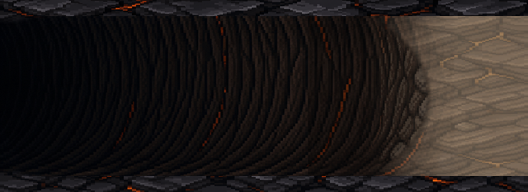
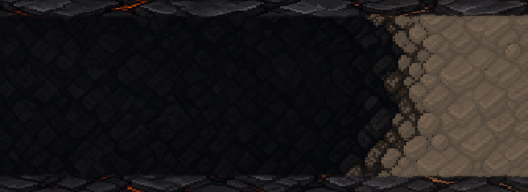
fix: generate framed tunnel background

diff --git a/src/scenes/GameScene.ts b/src/scenes/GameScene.ts
@@ -24,7 +24,7 @@ import { atlasFrameForTile, backwallFrameForTile, tileKey, worldToTile } from '.
 type CursorKeys = Phaser.Types.Input.Keyboard.CursorKeys;
 type Facing = 'east' | 'west';
 
-const GENERATED_ASSET_VERSION = 'exact-11x4-tunnel-20260501-2143';
+const GENERATED_ASSET_VERSION = 'framed-11x4-tunnel-20260501-2148';
 
 export class GameScene extends Phaser.Scene {
   private generator = new GravityDigLevelGenerator();
